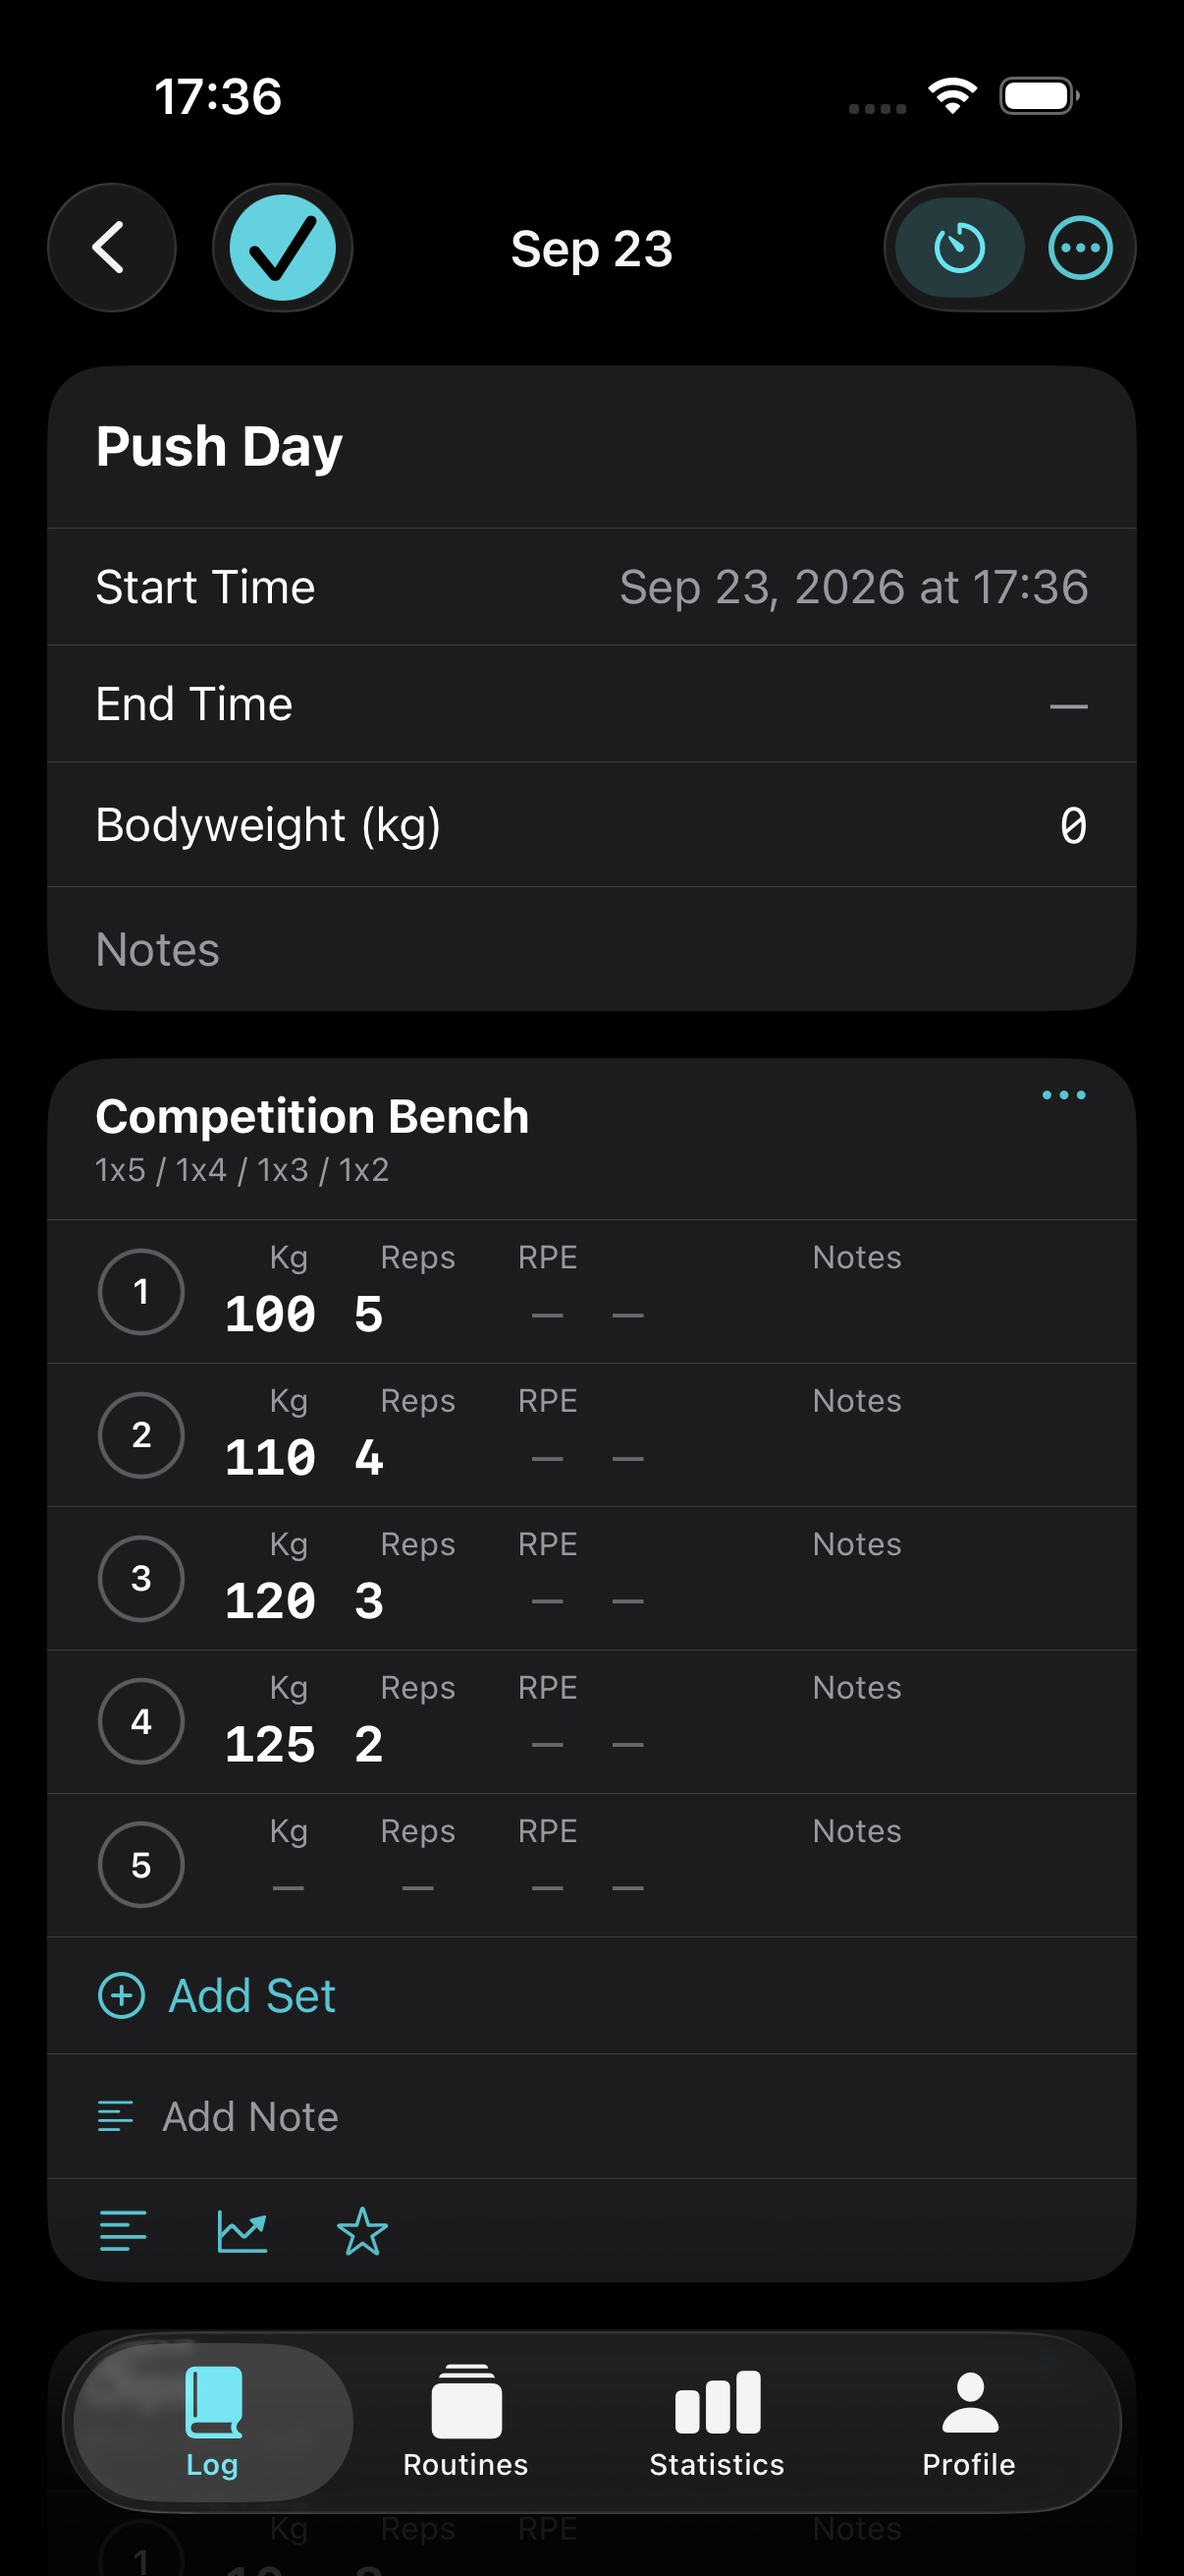
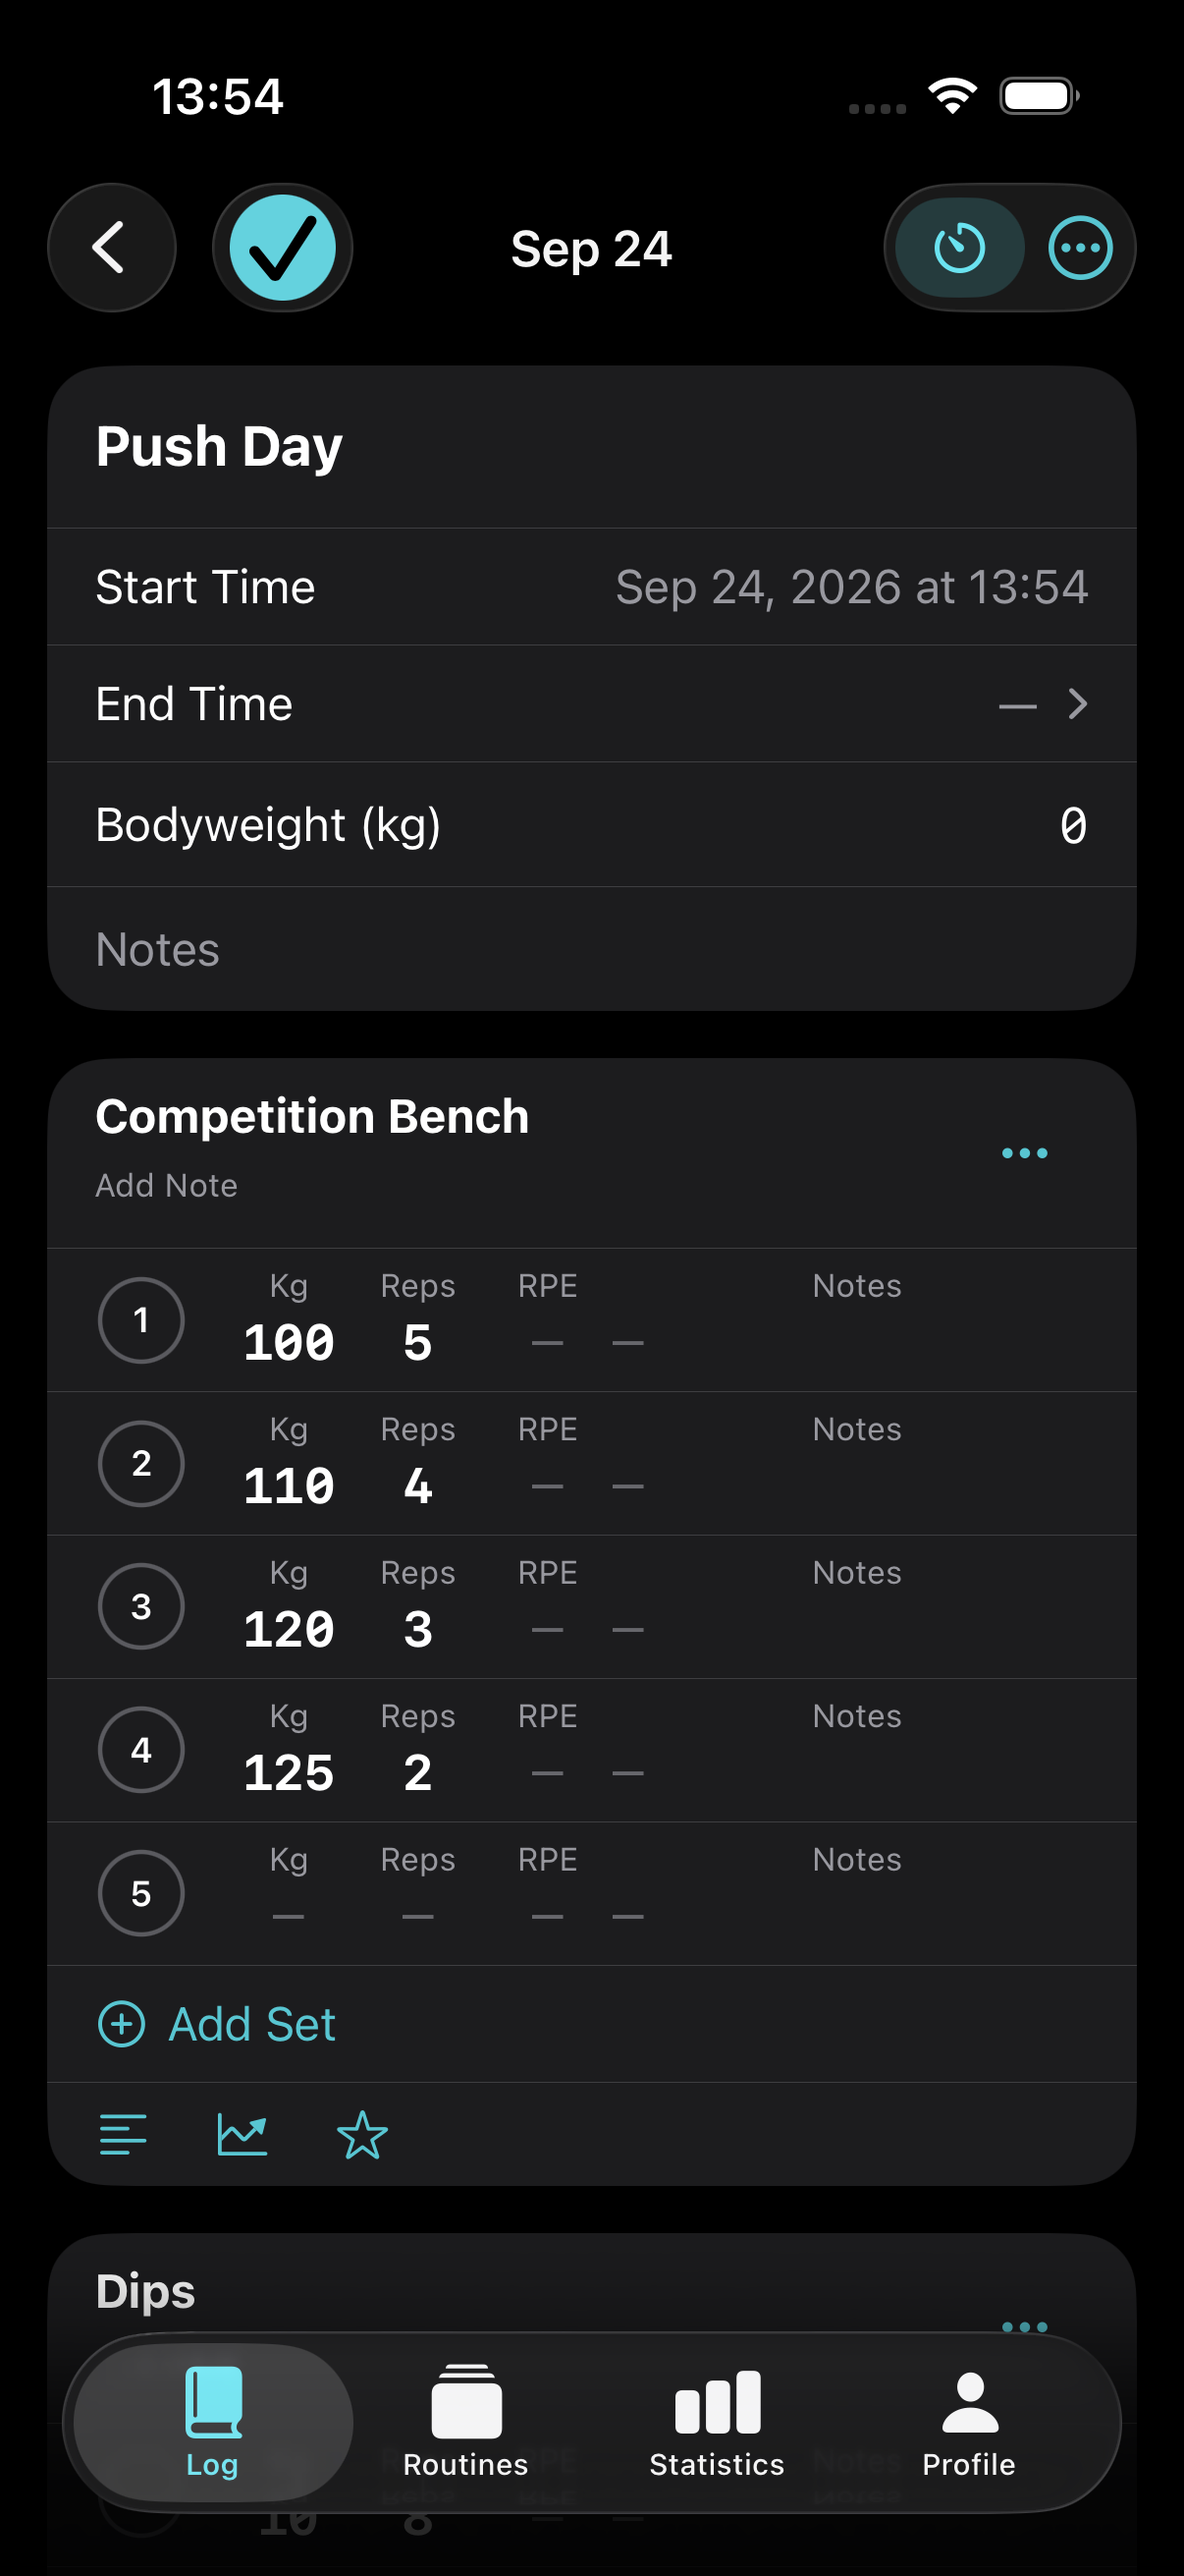
Docs + captures for owner round 2: the 1.1.0 pass section, the exercise menu and end-time picker captures, refreshed 07/11

diff --git a/docs/BUILD-REPORT.md b/docs/BUILD-REPORT.md
@@ -199,6 +199,108 @@ over HTTPS and matches. Install page: <https://replog.eamonmckiernan.im/replog/>
 
 ---
 
+## 0.2 Owner round 2 — End Time finishes the session, no 0x4 pre-fill, the note under the name, a working exercise menu (2026-09-24)
+
+Owner report from the phone, with a screenshot of the reference app's exercise
+panel.
+
+### 0.2.1 "click on the 'end time' row ... and it will automatically mark the session as finished"
+
+The row was plain text with no gesture on it. It is now a button
+(`ActiveWorkoutView.endTimeRow`, identifier `end-time-row`, with the chevron
+that says it is tappable) which opens `EndTimePickerSheet` **at the current
+time**. Done sets the end time and runs the same completion path as the
+checkmark: save, stop the rest timer, queue the session for sync, end the Live
+Activity, write to Health when enabled, and pop back to the Log. A picked time
+earlier than the start rolls to the next day, so a workout that ran past
+midnight cannot end before it began.
+
+**Evidence:** `testEndTimeRowFinishesTheWorkout` (33.2 s — asserts the row is
+tappable, the picker appears, and the session lands in the Log without the
+"In progress" marker) and capture `11c-end-time-picker.png`.
+
+### 0.2.2 "remove the autofilled 0 and 4 under weight and reps for new sessions"
+
+**Cause:** a routine exercise's stored scheme row defaulted to `[0, 4]` —
+"0 kg x 4" — and starting a workout wrote it straight into set 1, where it
+looked like something the owner had entered and counted as a real set. Two
+changes:
+
+- `RoutinesViews.addExercise` no longer seeds `[[0, 4]]`; schemes are no longer
+  editable in the app, so a new exercise simply has none.
+- Both start paths (the "+" sheet and the routine's "Start this Workout") now
+  go through **`Engine/SchemePrefill`**: a scheme row with no weight pre-fills
+  nothing, so the row shows its placeholder instead of a committed zero. Set
+  ROWS still come from the routine's warm-up/working counts, and a scheme row
+  with a real weight still pre-fills weight and reps as before.
+
+**Evidence:** `Tests/Unit/SchemePrefillTests.swift` — 7 tests, including "a
+zero-weight scheme row pre-fills nothing", "a half-written row pre-fills
+nothing", and the row-count formula. The unit suite went 36 -> 43.
+
+### 0.2.3 "the '1x4' under 'low bar squat' title should be where the exercise note is displayed"
+
+The line under the exercise name **is** the exercise note now: displayed and
+typed in place with the same inline field ("Add Note" while empty), in the
+position RepCount uses. `plannedScheme` is no longer rendered or written, and
+the separate "Add Note" row is gone — one place for the note, under the name.
+
+### 0.2.4 "the three dots on the end of the title row on exercises doesnt do anything"
+
+**Cause:** it was a bare `Image(systemName: "ellipsis")` with no frame and no
+content shape, so its hit target was the glyph itself — which is why it read as
+dead — and it offered only four items. It is now a 44 pt target
+(`exercise-menu`) opening the reference panel's action set:
+
+| Action | What it does |
+|---|---|
+| **Move** | `MoveExercisesSheet` — drag-to-reorder the workout's exercises; written back on Done |
+| **Replace** | exercise picker; the sets, notes and unit override already logged stay with the entry |
+| **Delete** | confirm, then removes the exercise from the session |
+| **Edit Note** | puts the caret in the note under the name |
+| **History** | `ExerciseHistoryView` |
+| **Charts** | `ExerciseChartsSheet` — the statistics screen *pushes* `ExerciseDetailView`, which has no title-bar button of its own, so the sheet wrapper supplies Done |
+| **Personal Records** | `PRView` |
+| **Weight Unit** | per-exercise kg/lb override (nil = follow the global unit); storage stays kg |
+
+**Evidence:** `testExerciseMenuOffersTheReferenceActions` (32.2 s — opens the
+menu and asserts all eight actions are present) and capture
+`11b-exercise-menu.png`.
+
+### 0.2.5 Gate at `383e39d` — one `bash scripts/mac-tests.sh` run
+
+```
+** BUILD SUCCEEDED **
+✔ Test run with 43 tests in 6 suites passed after 0.287 seconds.
+Test Case '-[RepLogUITests.RepLogUITests testEditModeRevealsRowDelete]' passed (52.414 seconds).
+Test Case '-[RepLogUITests.RepLogUITests testEndTimeRowFinishesTheWorkout]' passed (33.175 seconds).
+Test Case '-[RepLogUITests.RepLogUITests testExerciseMenuOffersTheReferenceActions]' passed (32.196 seconds).
+Test Case '-[RepLogUITests.RepLogUITests testExerciseSearchFilters]' passed (22.731 seconds).
+Test Case '-[RepLogUITests.RepLogUITests testFinishAsksBeforeEnding]' passed (37.539 seconds).
+Test Case '-[RepLogUITests.RepLogUITests testOfflineDrill]' passed (100.139 seconds).
+Test Case '-[RepLogUITests.RepLogUITests testOpenWorkoutReopensEditorAfterLeavingIt]' passed (47.235 seconds).
+Test Case '-[RepLogUITests.RepLogUITests testRPEChipsDisplayWholeValues]' passed (31.782 seconds).
+Test Case '-[RepLogUITests.RepLogUITests testRPEEntryTypes85AndReadsBack]' passed (30.431 seconds).
+Test Case '-[RepLogUITests.RepLogUITests testSessionRowOpensDetail]' passed (43.938 seconds).
+Test Case '-[RepLogUITests.RepLogUITests testSetNoteEntry]' passed (30.516 seconds).
+Test Case '-[RepLogUITests.RepLogUITests testSyncURLAndTokenFields]' passed (34.760 seconds).
+   Executed 12 tests, with 0 failures (0 unexpected) in 496.856 (496.874) seconds
+** TEST SUCCEEDED **
+All Mac tests passed.
+```
+
+### 0.2.6 Published
+
+**1.1.0 (build 3)** — `im.eamon.replog`, 686,575 bytes, sha256
[1 lines of base64/hex data omitted]
+from `383e39d` through the Mac's GUI session (ad-hoc profile valid to
+2027-09-23 with the owner's UDID). The **served** file's sha256 was read back
+over HTTPS and matches, and the shipped binary contains the new copy ("Done
+finishes the workout and saves it.", "Replace Exercise"). Install page:
+<https://replog.eamonmckiernan.im/replog/>
+
+---
+
 ## 1. Test evidence (all real, all run)
 
 ### 1.1 The gate — `bash scripts/mac-tests.sh` (one run, pasted raw)

diff --git a/docs/UI-VISUAL-PASS.md b/docs/UI-VISUAL-PASS.md
@@ -28,6 +28,8 @@ Final committed set: `docs/visual/` — one file per screen, plus
 | 10-rpe-inline.png | RPE typed in place — chips 6/7/7.5/8/8.5/9 sit under the editing row |
 | 10b-set-cell-typed.png | A weight typed straight into its set cell (caret in the box, keyboard up) |
 | 11-active-workout-populated.png | Active workout with RPE + a set note |
+| 11b-exercise-menu.png | The exercise card's "…" menu (Move / Replace / Delete / Edit Note / History / Charts / Personal Records / Weight Unit) |
+| 11c-end-time-picker.png | The End Time row's clock picker — Done sets the end time and finishes the session |
 | 12-rest-timer.png | Rest timer sheet |
 | 12b-finish-confirm.png | The finish checkmark's confirmation dialog (asks first) |
 | 12c-log-in-progress.png | Log with the open workout marked "In progress", and the sync control top-right |
